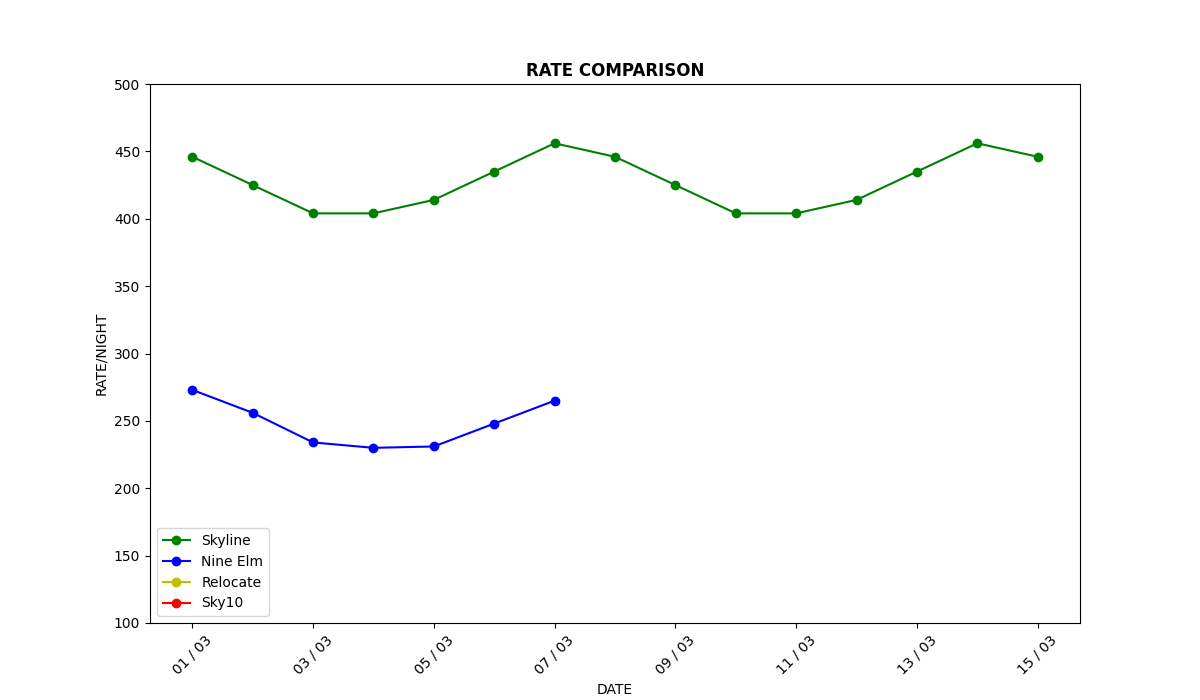
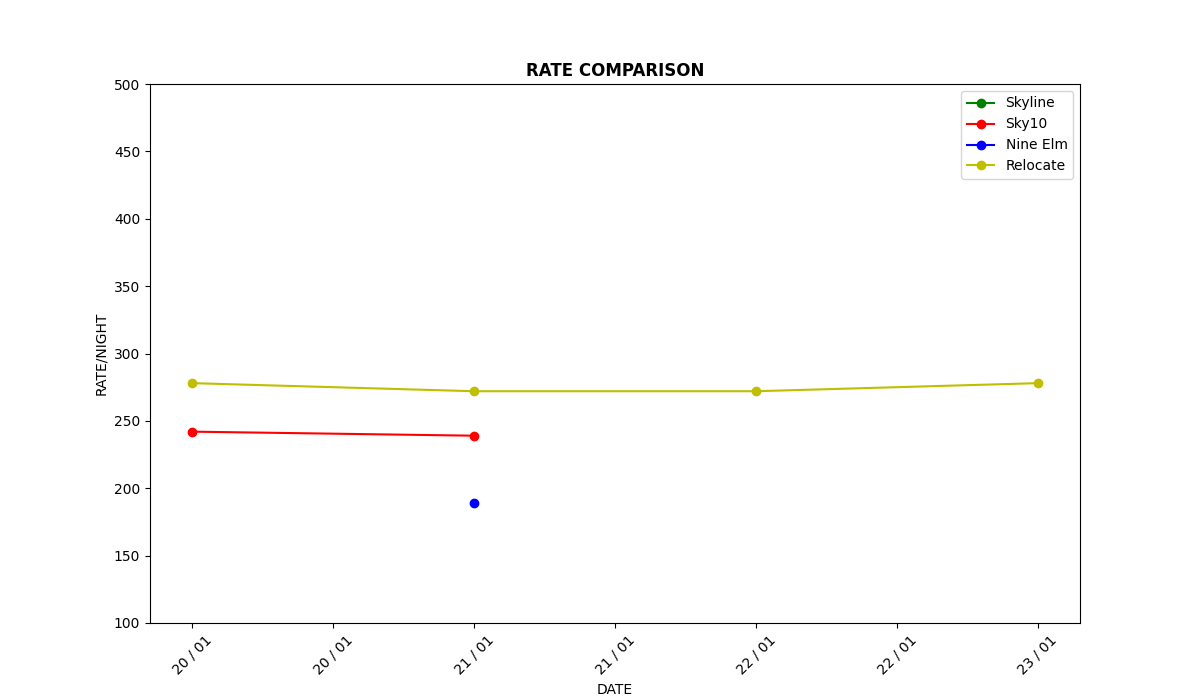
updated

diff --git a/mock.py b/mock.py
@@ -15,10 +15,10 @@ url_skyline="https://www.airbnb.co.uk/rooms/893933063998940096?source_impression
 url_nineelms="https://www.airbnb.co.uk/rooms/991985177917763716?source_impression_id=p3_1704451278_Eah3CTzOxqWaHULc&check_in="
 url_sky10="https://www.airbnb.co.uk/rooms/1046907771076731775?source_impression_id=p3_1704451469_3qliydVyTnmWa7FH&check_in="
 
-def getRates(property_name,url_param,arrivalDate,departureDate, num_days, driver):
+def getRates(property_name,url_param,arrivalDate,departureDate, min_nights, num_days, driver):
     skyline_x=[]
     skyline_y=[]
-    min_nights=3
+    
     for x in range(int(num_days)):
         # print("ARRIVAL DATE", arrivalDate)
 
@@ -26,7 +26,7 @@ def getRates(property_name,url_param,arrivalDate,departureDate, num_days, driver
             url=f"{url_param}{arrivalDate}&guests=4&adults=4&check_out={departureDate}"
             driver.get(url)
             # print("SKYLINE 2 BED 2 BATH")
-            print("URL", url)
+            # print("URL", url)
             sleep(3)
             try:
                 element = WebDriverWait(driver, 10).until(
@@ -35,8 +35,11 @@ def getRates(property_name,url_param,arrivalDate,departureDate, num_days, driver
                 element.click()
                 sleep(3)
             except:
-                print("not click")
+                pass
+                # print("")
+            sleep(3)
             total_price = driver.find_element(By.XPATH, "/html/body/div[5]/div/div/div[1]/div/div[2]/div/div/div/div[1]/main/div/div[1]/div[3]/div/div[2]/div/div/div[1]/div/div/div/div/div/div/div/div[3]/div/section/div[2]/div/span[2]/span[1]/span")
+            # total_price = driver.find_element(By.XPATH, "/html/body/div[5]/div/div/div[1]/div/div[2]/div/div/div/div[1]/main/div/div[1]/div[3]/div/div[2]/div/div/div[1]/div/div/div/div/div/div/div/div[3]/div/section/div[2]/div/span[2]/span[1]/span
             total_price = total_price.text.replace("£","")
             price_per_night=0
             if len(total_price) >3:
@@ -44,33 +47,32 @@ def getRates(property_name,url_param,arrivalDate,departureDate, num_days, driver
             else:
                 price_per_night = int(total_price)/min_nights
             price_per_night = int(price_per_night)
-            print("Rate/night £",price_per_night)
+            # print("Rate/night £",price_per_night)
             skyline_y.append(price_per_night)
             
-        except:
-            print("Not available")
+        except Exception as e:
+            print(e)
             skyline_y.append(None)
         finally:
-            xtick_label = arrivalDate
-            skyline_x.append(xtick_label)
-            result = addOneDay(arrivalDate)
+            # print("Arrival", arrivalDate)
+            skyline_x.append(arrivalDate)
+            result = addOneDay(arrivalDate, min_nights)
             arrivalDate = result["arrivalDate"]
             departureDate = result["departureDate"]
+            # print("DEPARTURE",departureDate)
 
     print(property_name,skyline_x, skyline_y)
-    return skyline_x, skyline_y
-
-
-   
+    return skyline_x, skyline_y   
 
 def getFrank():
-    min_nights=3 
+    min_nights=4 
     arrivalDate = input("date (dd-mm-yyyy) : ")
     num_days = input("Number of days : ")
     arrivalDate = datetime.strptime(arrivalDate,"%d-%m-%Y")
     nights = timedelta(days=min_nights)
     departureDate = arrivalDate+nights
     departureDate = departureDate.strftime("%Y-%m-%d")
+    
     arrivalDate = arrivalDate.strftime("%Y-%m-%d")
 
     options = Options()
@@ -79,44 +81,30 @@ def getFrank():
     driver = webdriver.Chrome(options=options)
     
     plt.rcParams['figure.figsize'] = [12, 7]
-    # a=date.fromisoformat("2024-01-20")
-    # b=date.fromisoformat("2024-01-21")
-    # print(a)
-    # print(type(a))
-    # x=[a,b]
-    # y=[150,200]
-    # plt.plot_date(x,y, "g",marker="o", label="Skyline")
-    # x=['2024-01-20', '2024-01-21', '2024-01-22', '2024-01-23', '2024-01-24', '2024-01-25', '2024-01-26', '2024-01-27', '2024-01-28', '2024-01-29'] 
-    # y= [150, 200, None, None, None, None, None, None, None, 300]
     
-    # x, y = getRates("skyline",url_skyline,arrivalDate, departureDate,num_days, driver)
-    # x = [ date.fromisoformat(i) for i in x]
-    # x=np.array(x)
-    # print(x)
-    # y = np.array(y).astype(np.double)
-    # sky_mask = np.isfinite(y)
-    # plt.plot_date(x[sky_mask],y[sky_mask], "g",marker="o", label="Skyline")
- 
-   
+    x, y = getRates("skyline",url_skyline,arrivalDate, departureDate,num_days, driver)
+    x = [ date.fromisoformat(i) for i in x]
+    x=np.array(x)
+    print(x)
+    y = np.array(y).astype(np.double)
+    sky_mask = np.isfinite(y)
+    plt.plot_date(x[sky_mask],y[sky_mask], "g",marker="o", label="Skyline")
+
+    sky10_x, sky10_y = getRates("Sky10", url_sky10, arrivalDate, departureDate,min_nights,num_days,driver)
+    sky10_y = np.array(sky10_y).astype(np.double)
+    sky10_x = np.array(sky10_x)
+    sky10_mask=np.isfinite(sky10_y)
+    plt.plot_date(x[sky10_mask],sky10_y[sky10_mask],"r", marker="o", label="Sky10")
     
     nine_x, nine_y = getRates("NineElm",url_nineelms,arrivalDate, departureDate,num_days,driver)
     nine_y = np.array(nine_y).astype(np.double)
     nine_mask=np.isfinite(nine_y)
     plt.plot_date(x[nine_mask],nine_y[nine_mask],"b", marker="o", label="Nine Elm")
 
-   
-    
-    # relocate_x, relocate_y = getRates("Relocate", url_relocate,arrivalDate, departureDate,num_days,driver)
-    # relocate_y = np.array(relocate_y).astype(np.double)
-    # relocate_mask=np.isfinite(relocate_y)
-    # plt.plot_date(x[relocate_mask],relocate_y[relocate_mask], "y", marker="o", label="Relocate")
-    
-   
-    
-    # sky10_x, sky10_y = getRates("Sky10", url_sky10, arrivalDate, departureDate,num_days,driver)
-    # sky10_y = np.array(sky10_y).astype(np.double)
-    # sky10_mask=np.isfinite(sky10_y)
-    # plt.plot_date(x[sky10_mask],sky10_y[sky10_mask],"r", marker="o", label="Sky10")
+    relocate_x, relocate_y = getRates("Relocate", url_relocate,arrivalDate, departureDate,num_days,driver)
+    relocate_y = np.array(relocate_y).astype(np.double)
+    relocate_mask=np.isfinite(relocate_y)
+    plt.plot_date(x[relocate_mask],relocate_y[relocate_mask], "y", marker="o", label="Relocate")
     
     plt.legend()
     plt.xlabel("DATE")

diff --git a/myfunc.py b/myfunc.py
@@ -15,10 +15,10 @@ url_skyline="https://www.airbnb.co.uk/rooms/893933063998940096?source_impression
 url_nineelms="https://www.airbnb.co.uk/rooms/991985177917763716?source_impression_id=p3_1704451278_Eah3CTzOxqWaHULc&check_in="
 url_sky10="https://www.airbnb.co.uk/rooms/1046907771076731775?source_impression_id=p3_1704451469_3qliydVyTnmWa7FH&check_in="
 
-def getRates(property_name,url_param,arrivalDate,departureDate, num_days, driver):
+def getRates(property_name,url_param,arrivalDate,departureDate, min_nights, num_days, driver):
     skyline_x=[]
     skyline_y=[]
-    min_nights=3
+    
     for x in range(int(num_days)):
         # print("ARRIVAL DATE", arrivalDate)
 
@@ -35,8 +35,11 @@ def getRates(property_name,url_param,arrivalDate,departureDate, num_days, driver
                 element.click()
                 sleep(3)
             except:
-                print("")
+                pass
+                # print("")
+            sleep(3)
             total_price = driver.find_element(By.XPATH, "/html/body/div[5]/div/div/div[1]/div/div[2]/div/div/div/div[1]/main/div/div[1]/div[3]/div/div[2]/div/div/div[1]/div/div/div/div/div/div/div/div[3]/div/section/div[2]/div/span[2]/span[1]/span")
+            # total_price = driver.find_element(By.XPATH, "/html/body/div[5]/div/div/div[1]/div/div[2]/div/div/div/div[1]/main/div/div[1]/div[3]/div/div[2]/div/div/div[1]/div/div/div/div/div/div/div/div[3]/div/section/div[2]/div/span[2]/span[1]/span
             total_price = total_price.text.replace("£","")
             price_per_night=0
             if len(total_price) >3:
@@ -47,21 +50,19 @@ def getRates(property_name,url_param,arrivalDate,departureDate, num_days, driver
             # print("Rate/night £",price_per_night)
             skyline_y.append(price_per_night)
             
-        except:
-            # print("Not available")
+        except Exception as e:
+            # print(e)
             skyline_y.append(None)
         finally:
-            xtick_label = arrivalDate
-            skyline_x.append(xtick_label)
-            result = addOneDay(arrivalDate)
+            # print("Arrival", arrivalDate)
+            skyline_x.append(arrivalDate)
+            result = addOneDay(arrivalDate, min_nights)
             arrivalDate = result["arrivalDate"]
             departureDate = result["departureDate"]
+            # print("DEPARTURE",departureDate)
 
     print(property_name,skyline_x, skyline_y)
-    return skyline_x, skyline_y
-
-
-   
+    return skyline_x, skyline_y   
 
 def getFrank():
     min_nights=4 
@@ -71,6 +72,7 @@ def getFrank():
     nights = timedelta(days=min_nights)
     departureDate = arrivalDate+nights
     departureDate = departureDate.strftime("%Y-%m-%d")
+    
     arrivalDate = arrivalDate.strftime("%Y-%m-%d")
 
     options = Options()
@@ -79,44 +81,30 @@ def getFrank():
     driver = webdriver.Chrome(options=options)
     
     plt.rcParams['figure.figsize'] = [12, 7]
-    # a=date.fromisoformat("2024-01-20")
-    # b=date.fromisoformat("2024-01-21")
-    # print(a)
-    # print(type(a))
-    # x=[a,b]
-    # y=[150,200]
-    # plt.plot_date(x,y, "g",marker="o", label="Skyline")
-    # x=['2024-01-20', '2024-01-21', '2024-01-22', '2024-01-23', '2024-01-24', '2024-01-25', '2024-01-26', '2024-01-27', '2024-01-28', '2024-01-29'] 
-    # y= [150, 200, None, None, None, None, None, None, None, 300]
     
-    x, y = getRates("skyline",url_skyline,arrivalDate, departureDate,num_days, driver)
+    x, y = getRates("skyline",url_skyline,arrivalDate, departureDate,min_nights,num_days, driver)
     x = [ date.fromisoformat(i) for i in x]
     x=np.array(x)
     print(x)
     y = np.array(y).astype(np.double)
     sky_mask = np.isfinite(y)
     plt.plot_date(x[sky_mask],y[sky_mask], "g",marker="o", label="Skyline")
- 
-    # nine_y=[150, None, 193, 193, 201, 209, 209, 201, 193, 193]
+
+    sky10_x, sky10_y = getRates("Sky10", url_sky10, arrivalDate, departureDate,min_nights,num_days,driver)
+    sky10_y = np.array(sky10_y).astype(np.double)
+    sky10_x = np.array(sky10_x)
+    sky10_mask=np.isfinite(sky10_y)
+    plt.plot_date(x[sky10_mask],sky10_y[sky10_mask],"r", marker="o", label="Sky10")
     
-    nine_x, nine_y = getRates("NineElm",url_nineelms,arrivalDate, departureDate,num_days,driver)
+    nine_x, nine_y = getRates("NineElm",url_nineelms,arrivalDate, departureDate,min_nights,num_days,driver)
     nine_y = np.array(nine_y).astype(np.double)
     nine_mask=np.isfinite(nine_y)
     plt.plot_date(x[nine_mask],nine_y[nine_mask],"b", marker="o", label="Nine Elm")
 
-    # relocate_y=[315, 315, 315, 315, 315, 315, 315, 315, 315, 315]
-    
-    relocate_x, relocate_y = getRates("Relocate", url_relocate,arrivalDate, departureDate,num_days,driver)
+    relocate_x, relocate_y = getRates("Relocate", url_relocate,arrivalDate, departureDate,min_nights,num_days,driver)
     relocate_y = np.array(relocate_y).astype(np.double)
     relocate_mask=np.isfinite(relocate_y)
     plt.plot_date(x[relocate_mask],relocate_y[relocate_mask], "y", marker="o", label="Relocate")
-    
-    # sky10_y=[244, 231, 222, 222, 235, 248, 257, 253, 249, 249]
-    
-    sky10_x, sky10_y = getRates("Sky10", url_sky10, arrivalDate, departureDate,num_days,driver)
-    sky10_y = np.array(sky10_y).astype(np.double)
-    sky10_mask=np.isfinite(sky10_y)
-    plt.plot_date(x[sky10_mask],sky10_y[sky10_mask],"r", marker="o", label="Sky10")
     
     plt.legend()
     plt.xlabel("DATE")

diff --git a/utils.py b/utils.py
@@ -1,9 +1,9 @@
 from datetime import datetime, timedelta
 
-def addOneDay(element):
+def addOneDay(element, min_nights):
     arrivalDate = datetime.strptime(element,"%Y-%m-%d")
     arrivalDate += timedelta(days=1)
-    nights = timedelta(days=3)
+    nights = timedelta(days=min_nights)
     departureDate = arrivalDate+nights
     departureDate = departureDate.strftime("%Y-%m-%d")
     arrivalDate = arrivalDate.strftime("%Y-%m-%d")
